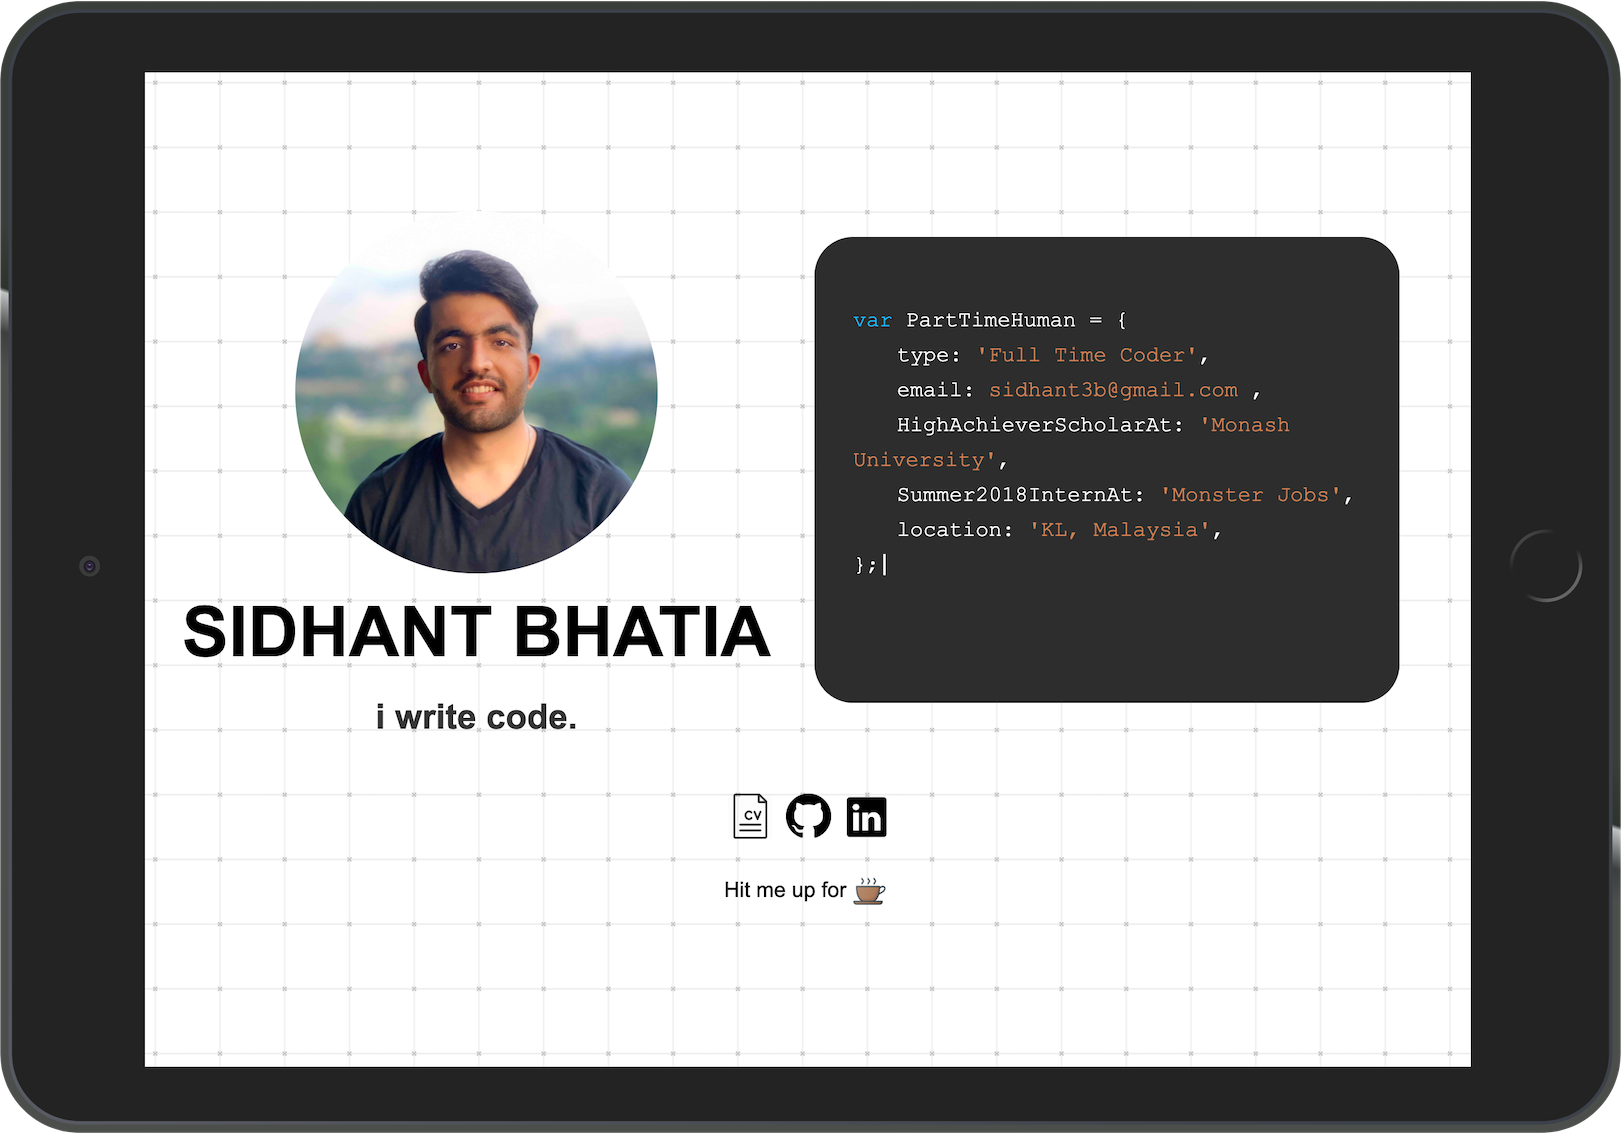
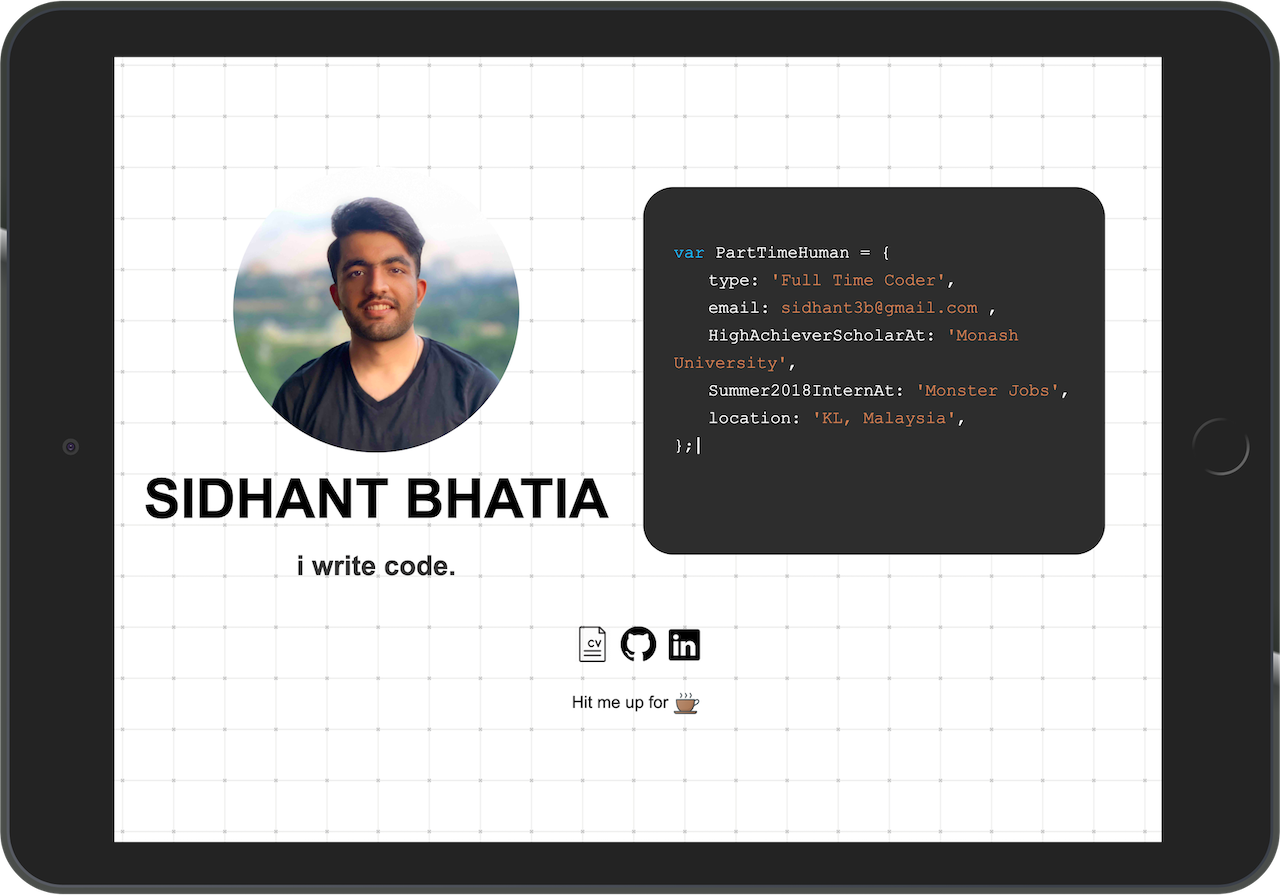
update intern experience and current location

diff --git a/my-website/src/app/ide-typewriter/ide-typewriter.component.ts b/my-website/src/app/ide-typewriter/ide-typewriter.component.ts
@@ -16,9 +16,11 @@ export class IdeTypewriterComponent implements OnInit {
         "<span style='color:deepskyblue'>var</span> <span>PartTimeHuman = {</span> \
         <br>&emsp;&emsp;<span>type: </span> <span style='color:rgba(253, 149, 90, 0.8)'>'Full Time Coder'</span><span>,</span>\
         <br>&emsp;&emsp;<span>email: </span> <a style='color:rgba(253, 149, 90, 0.8); text-decoration: none' href='mailto:sidhant3b@gmail.com?Subject=Hey Sid!'>sidhant3b@gmail.com</a> <span>,</span>\
-        <br>&emsp;&emsp;<span>HighAchieverScholarAt: </span> <span style='color:rgba(253, 149, 90, 0.8)'>'Monash University'</span><span>,</span>\
-        <br>&emsp;&emsp;<span>Summer2018InternAt: </span> <span style='color:rgba(253, 149, 90, 0.8)'>'Monster Jobs'</span><span>,</span>\
-        <br>&emsp;&emsp;<span>location: </span> <span style='color:rgba(253, 149, 90, 0.8)'>'KL, Malaysia'</span><span>,</span>\
+        <br>&emsp;&emsp;<span>HighAchieverScholarAt: </span> <a href='https://www.monash.edu/it' target='_blank' style='color:rgba(253, 149, 90, 0.8); text-decoration: none'>'Monash University'</a><span>,</span>\
+        <br>&emsp;&emsp;<span>Winter2020InternAt: </span> <a href='https://warwick.ac.uk/fac/sci/statistics/research/' target='_blank' style='color:rgba(253, 149, 90, 0.8); text-decoration: none'>'Warwick Research Centre'</a><span>,</span>\
+        <br>&emsp;&emsp;<span>Summer2019InternAt: </span> <a href='https://en.4th-valley.com/aboutus/' target='_blank' style='color:rgba(253, 149, 90, 0.8); text-decoration: none'>'Fourth Valley Concierge'</a><span>,</span>\
+        <br>&emsp;&emsp;<span>Summer2018InternAt: </span> <a href='https://www.monster.com/about/' target='_blank' style='color:rgba(253, 149, 90, 0.8); text-decoration: none'>'Monster Jobs'</a><span>,</span>\
+        <br>&emsp;&emsp;<span>location: </span> <span style='color:rgba(253, 149, 90, 0.8)'>'Coventry, United Kingdom'</span><span>,</span>\
         <br><span>};</span>\
         "
       ],

diff --git a/my-website/src/app/description/description.component.html b/my-website/src/app/description/description.component.html
@@ -1,7 +1,39 @@
 <p class="tagline">Part time human <span>Full time coder</span></p>
 <br />
-<p>High Achiever Scholar <span>@MonashUniversity</span></p>
-<p>2018 Summer intern <span>@MonsterJobs</span></p>
+<p>
+  High Achiever Scholar
+  <span
+    ><a href="https://www.monash.edu/it" target="_blank"
+      >@MonashUniversity</a
+    ></span
+  >
+</p>
+<p>
+  2020 Winter Intern
+  <span
+    ><a
+      href="https://warwick.ac.uk/fac/sci/statistics/research/"
+      target="_blank"
+      >@WarwickResearchCentre</a
+    ></span
+  >
+</p>
+<p>
+  2019 Summer Intern
+  <span
+    ><a href="https://en.4th-valley.com/aboutus/" target="_blank"
+      >@FourthValleyConcierge
+    </a></span
+  >
+</p>
+<p>
+  2018 Summer intern
+  <span
+    ><a href="https://www.monster.com/about/" target="_blank">
+      @MonsterJobs
+    </a></span
+  >
+</p>
 <br />
 <a href="mailto:sidhant3b@gmail.com?Subject=Hey Sid!">sidhant3b@gmail.com</a>
-<p>KL, <span>Malaysia</span></p>
+<p>Coventry, <span>United Kingdom</span></p>

diff --git a/my-website/src/app/app.component.html b/my-website/src/app/app.component.html
@@ -2,7 +2,10 @@
   <div class="introduction-block">
     <div class="column profile-photo-block">
       <img class="profile-photo" src="assets/profile-pic-sid.jpg" />
-      <p class="profile-name">SIDHANT BHATIA</p>
+      <p class="profile-name">
+        <span style="color: rgb(45, 90, 150);">Sid</span>hant
+        <span style="color: rgb(45, 90, 150);">B</span>hatia
+      </p>
       <p class="profile-description">i write code.</p>
     </div>
     <div class="column typewriter-block">

diff --git a/my-website/src/app/description/description.component.css b/my-website/src/app/description/description.component.css
@@ -14,6 +14,11 @@ a {
   text-decoration: none;
 }
 
+span > a {
+  color: black;
+  font-weight: 550;
+}
+
 span {
   color: black;
   font-weight: 550;

diff --git a/my-website/src/app/app.component.css b/my-website/src/app/app.component.css
@@ -123,6 +123,7 @@ a {
   .social-links-block {
     text-align: left;
     padding-left: 10px;
+    margin-top: 20px;
     margin-bottom: 0px;
   }
 
